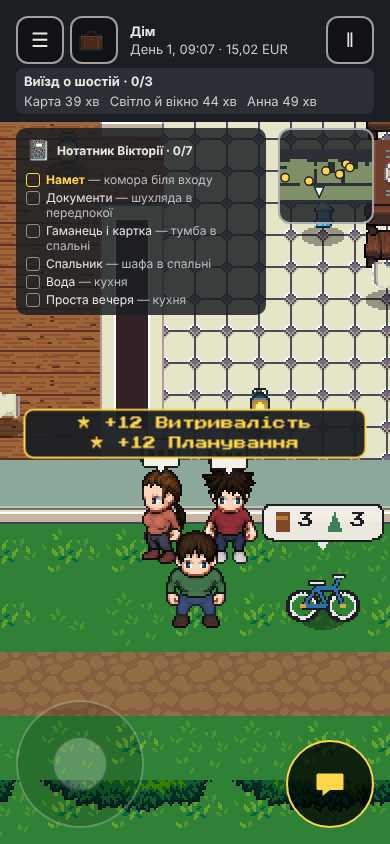
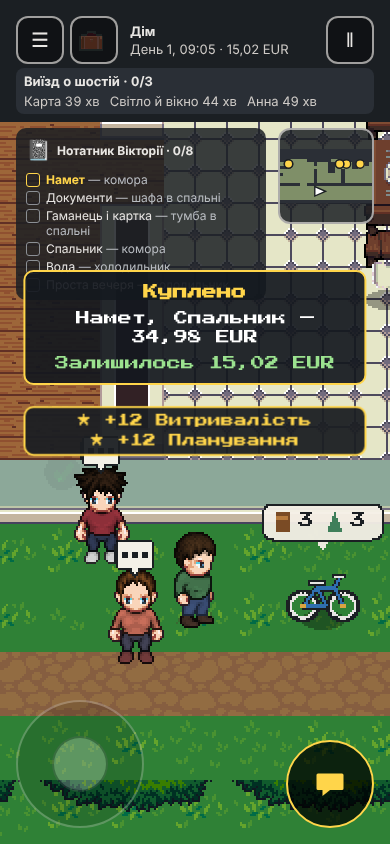
GAME-337: рецензія — h4 і data-ui=story на екрані «Не влазить», відхилений запис дошки не мовчить, гарди списків, маркер походу не після ночі
Claude-Session: https://claude.ai/code/session_01RoJJJhaZjeur2b1tUo6iMd

diff --git a/src/main.ts b/src/main.ts
@@ -71,6 +71,7 @@ import contentEvents from '../content/events.json';
 import { rankUps, SKILL_IDS, type HandAction } from './core/skills';
 import type { SkillUp } from './ui/overlay-order';
 import { openGate } from './view/open-gate';
+import { boardError } from './core/camp-board';
 import { missionWorkDue, pendingTrip } from './view/mission-work';
 import { createMinigameSession, type MinigameSession } from './view/minigame-session';
 import { minigameById } from './content/minigames';
@@ -494,7 +495,12 @@ const samplePort: SamplePort = {
     bridge.send({ type: 'StartScene', sceneId: SCRAPE_SCENE, facts }); storyChanged();
   },
   board: () => bridge.state.game.campBoard,
-  saveBoard: (b) => { bridge.send({ type: 'SaveCampBoard', board: b }); },
+  // GAME-337 (закон 4): відхилений запис дошки не мовчить — так «knots» тихо губив день. У e2e/dev — помилка сторінки, у проді — console.error.
+  saveBoard: (b) => {
+    const why = boardError(b);
+    if (why !== null) { const msg = `SaveCampBoard rejected: ${why}`; console.error(msg); if (import.meta.env.MODE !== 'production') throw new Error(msg); return; }
+    bridge.send({ type: 'SaveCampBoard', board: b });
+  },
   stormNight: () => { if (!playedScene(STORM_SCENE)) { bridge.send(stormNightMove(bridge.state.game.flags, undefined, bridge.state.game.campBoard?.results.fire !== undefined, bridge.state.game.campBoard?.facts.dryLogs)); storyChanged(); } },
   restart: async () => { await saves.newGame(); location.reload(); },
   subscribe: (l) => { sampleListeners.add(l); return () => { sampleListeners.delete(l); }; },
@@ -563,7 +569,7 @@ const worldHooks: WorldHooks = {
   grillDue: () => fireplaceDue(bridge.state) && fishEvening(bridge.state.game.flags) === 'kept',
   onGrilled: (charred) => { grilledCharred = charred; },
   onFish,
-  isLive: (name) => (name.startsWith('trip.') ? sampleOn && sampleStage() === 'day' && missionSession === null && pendingTrip(bridge.state.game)?.zone === name.slice(5) : sampleOn && stationRoutine(name) !== null ? stationsLive() : !campOnly(name) && liveSpot(bridge.state, name, GAME_DEFS)),
+  isLive: (name) => (name.startsWith('trip.') ? sampleOn && sampleStage() === 'day' && sampleGoal(bridge.state.game.flags, playedScene(STORM_SCENE)) !== 'done' && missionSession === null && pendingTrip(bridge.state.game)?.zone === name.slice(5) : sampleOn && stationRoutine(name) !== null ? stationsLive() : !campOnly(name) && liveSpot(bridge.state, name, GAME_DEFS)),
   stations: () => sampleOn,
   posts: stationPosts,
   frame: (dtMs) => {
@@ -590,7 +596,7 @@ const worldHooks: WorldHooks = {
   target: () => {
     if (targetFor !== bridge.state.game || targetPack !== backpack.length || targetMin !== bridge.state.clock.minutes) { targetFor = bridge.state.game; targetPack = backpack.length; targetMin = bridge.state.clock.minutes; // GAME-183: прохання в роботі (вибір гравця) — перше; далі крок сюжету. Збірка e2e без ?mapFirst=1 табір веде як раніше (лише прохання): ☰ там ще дає кроки.
       const at = bridge.state.game.player?.locationId;
-      const trip = sampleOn && at === MAP_LOCATION.camp ? pendingTrip(bridge.state.game) : null;   // GAME-337: крок місії веде в зону походу (позначка trip.<зона>)
+      const trip = sampleOn && at === MAP_LOCATION.camp && sampleGoal(bridge.state.game.flags, playedScene(STORM_SCENE)) !== 'done' ? pendingTrip(bridge.state.game) : null;   // GAME-337: крок місії веде в зону походу (позначка trip.<зона>)
       targetSpot = (trip ? `trip.${trip.zone}` : null) ?? requestTarget(bridge.state.game) ?? (switches.panelActs && (at === 'loc.camp.lake' || at === 'loc.road') ? null : nextTarget(bridge.state, GAME_DEFS, backpack)?.spot ?? null);
     }
     return targetSpot;

diff --git a/src/core/camp-board.test.ts b/src/core/camp-board.test.ts
@@ -1,8 +1,9 @@
 // GAME-319 · поле facts.berries у сейві дошки. Мутації (перевірено): прибрати перевірку berries → «погані значення» червоніє;
 // відхиляти будь-яке задане berries → «0 і 8 приймаються» червоніє; прибрати isInteger → «дробове» червоніє.
 import { describe, expect, it } from 'vitest';
-import { boardError, BOARD_ROUTINES } from './camp-board';
-import { ROUTINE_IDS } from '../content/camp-day';
+import { boardError, BOARD_DEVICES, BOARD_ROUNDS, BOARD_ROUTINES } from './camp-board';
+import { ROUNDS, ROUTINE_IDS } from '../content/camp-day';
+import { DEVICE_IDS } from '../content/camp-devices';
 
 const board = (facts: Record<string, unknown>): unknown => ({
   round: 'morning', picks: [], results: {}, devices: {},
@@ -31,5 +32,17 @@ describe('boardError: кожна рутина дня зберігається', 
       const b = { round: 'morning', picks: [{ id, round: 'morning', full: false }], results: { [id]: 'fine' }, devices: {}, facts: { water: 0, dryLogs: 0, lit: 0, fish: 0, bitter: 0, foodOut: true } };
       expect(boardError(b), id).toBeNull();
     }
+  });
+});
+
+describe('boardError: списки ядра збігаються з контентом (майбутні додавання)', () => {
+  it('раунди, пристрої, рутини — ті самі id', () => {
+    expect([...BOARD_ROUNDS]).toEqual([...ROUNDS]);
+    expect([...BOARD_DEVICES].sort()).toEqual([...DEVICE_IDS].sort());
+  });
+  it('дошка з УСІМА рутинами, пристроями й раундами приймається', () => {
+    const b = { round: 'evening', picks: ROUTINE_IDS.map((id, i) => ({ id, round: ROUNDS[i % ROUNDS.length], full: true })), results: Object.fromEntries(ROUTINE_IDS.map((id) => [id, 'good'])), devices: Object.fromEntries(DEVICE_IDS.map((d) => [d, { care: 1 }])), facts: { water: 1, dryLogs: 0, lit: 0, fish: 0, bitter: 0, foodOut: false } };
+    expect(boardError(b)).toBeNull();
+    for (const r of ROUNDS) expect(boardError({ ...b, round: r }), r).toBeNull();
   });
 });

diff --git a/src/ui/StoryPanel.tsx b/src/ui/StoryPanel.tsx
@@ -116,11 +116,13 @@ export function StoryPanel({ offer, lang, t, act, close, portrait, children, foo
   // GAME-337: «Не влазить» — екран із вибором, а не частина довгої ☰: заголовок, місце, кнопки «Лишити вдома» — на першому екрані (раніше 2,9 екрана, кнопки на 1400-му px).
   if (compact && !offer.dialogue && offer.packing && offer.packing.overflow.length > 0) {
     return (
-      <div ref={root} onKeyDown={(e) => { if (e.repeat && (e.key === 'Enter' || e.key === ' ')) e.preventDefault(); if (root.current) trapTab(e, root.current); }} class="ui-overlay ui-story ui-story-overflow" role="dialog" aria-modal="true" aria-label={t('pack.overflow')}>
-        <h2 tabIndex={-1}>{t('pack.overflow')}</h2>
+      <div ref={root} onKeyDown={(e) => { if (e.repeat && (e.key === 'Enter' || e.key === ' ')) e.preventDefault(); if (root.current) trapTab(e, root.current); }} class="ui-overlay ui-story ui-story-overflow" data-ui="story" role="dialog" aria-modal="true" aria-label={t('pack.overflow')}>
+        <h2 tabIndex={-1}>{t('ui.story')}</h2>
+        {children}
         <fieldset data-ui="packing">
           <p class="ui-status" data-ui="pack-space" data-used={offer.packing.used} data-capacity={offer.packing.capacity} role="status">{`${t('pack.space')}: ${offer.packing.used} / ${offer.packing.capacity} ${t('pack.units')}`}</p>
           <div data-ui="pack-overflow" role="group" aria-label={t('pack.overflow')}>
+            <h4>{t('pack.overflow')}</h4>
             {offer.packing.overflow.map((o) => <button type="button" class="ui-btn" key={o.key} data-act="leave" data-key={o.key} onClick={guarded(o.action.id)}>{`${t('pack.leave')} ${ct(lang, o.key)} · ${o.units} ${t('pack.units')}`}</button>)}
           </div>
           {offer.packing.noteKey && <p class="ui-status" data-ui="pack-note">{ct(lang, offer.packing.noteKey)}</p>}

diff --git a/tests/e2e/game-245-home-items.spec.ts b/tests/e2e/game-245-home-items.spec.ts
@@ -124,11 +124,8 @@ test('усе взяте вдома → авто: не влізло → «що л
   expect(after.filter((f) => f.startsWith('f.take-')), 'сумка порожня').toEqual([]);
   expect(['f.pack-tent', 'f.pack-sleeping-bag', 'f.pack-water', 'f.pack-simple-dinner', 'f.pack-documents', 'f.pack-wallet'].filter((f) => !after.includes(f)), 'потрібне в авто').toEqual([]);
   // Закрити панель, відійти й підійти до авто: пропозиція «Куди їдемо?» з'являється (ГАРД: «спакував — не сісти в авто» неможливий).
-  await page.keyboard.press('Escape');
-  const q = await probe(page);
-  await walk(page, route('home', [q.playerX, q.playerY], 'step.ST-004'));
-  const q2 = await probe(page);
-  await walk(page, route('home', [q2.playerX, q2.playerY], 'obj.vehicle'));
+  // GAME-337: останнє зайве лишили — ☰ закрилась сама, і «Куди їдемо?» вже на екрані (раніше Escape, відійти й підійти до авто).
   await expect(page.locator('.ui-talk')).toBeVisible({ timeout: 10_000 });
+  await expect(page.locator('.ui-story'), '☰ закрилась').toHaveCount(0);
   await ctx.close();
 });
